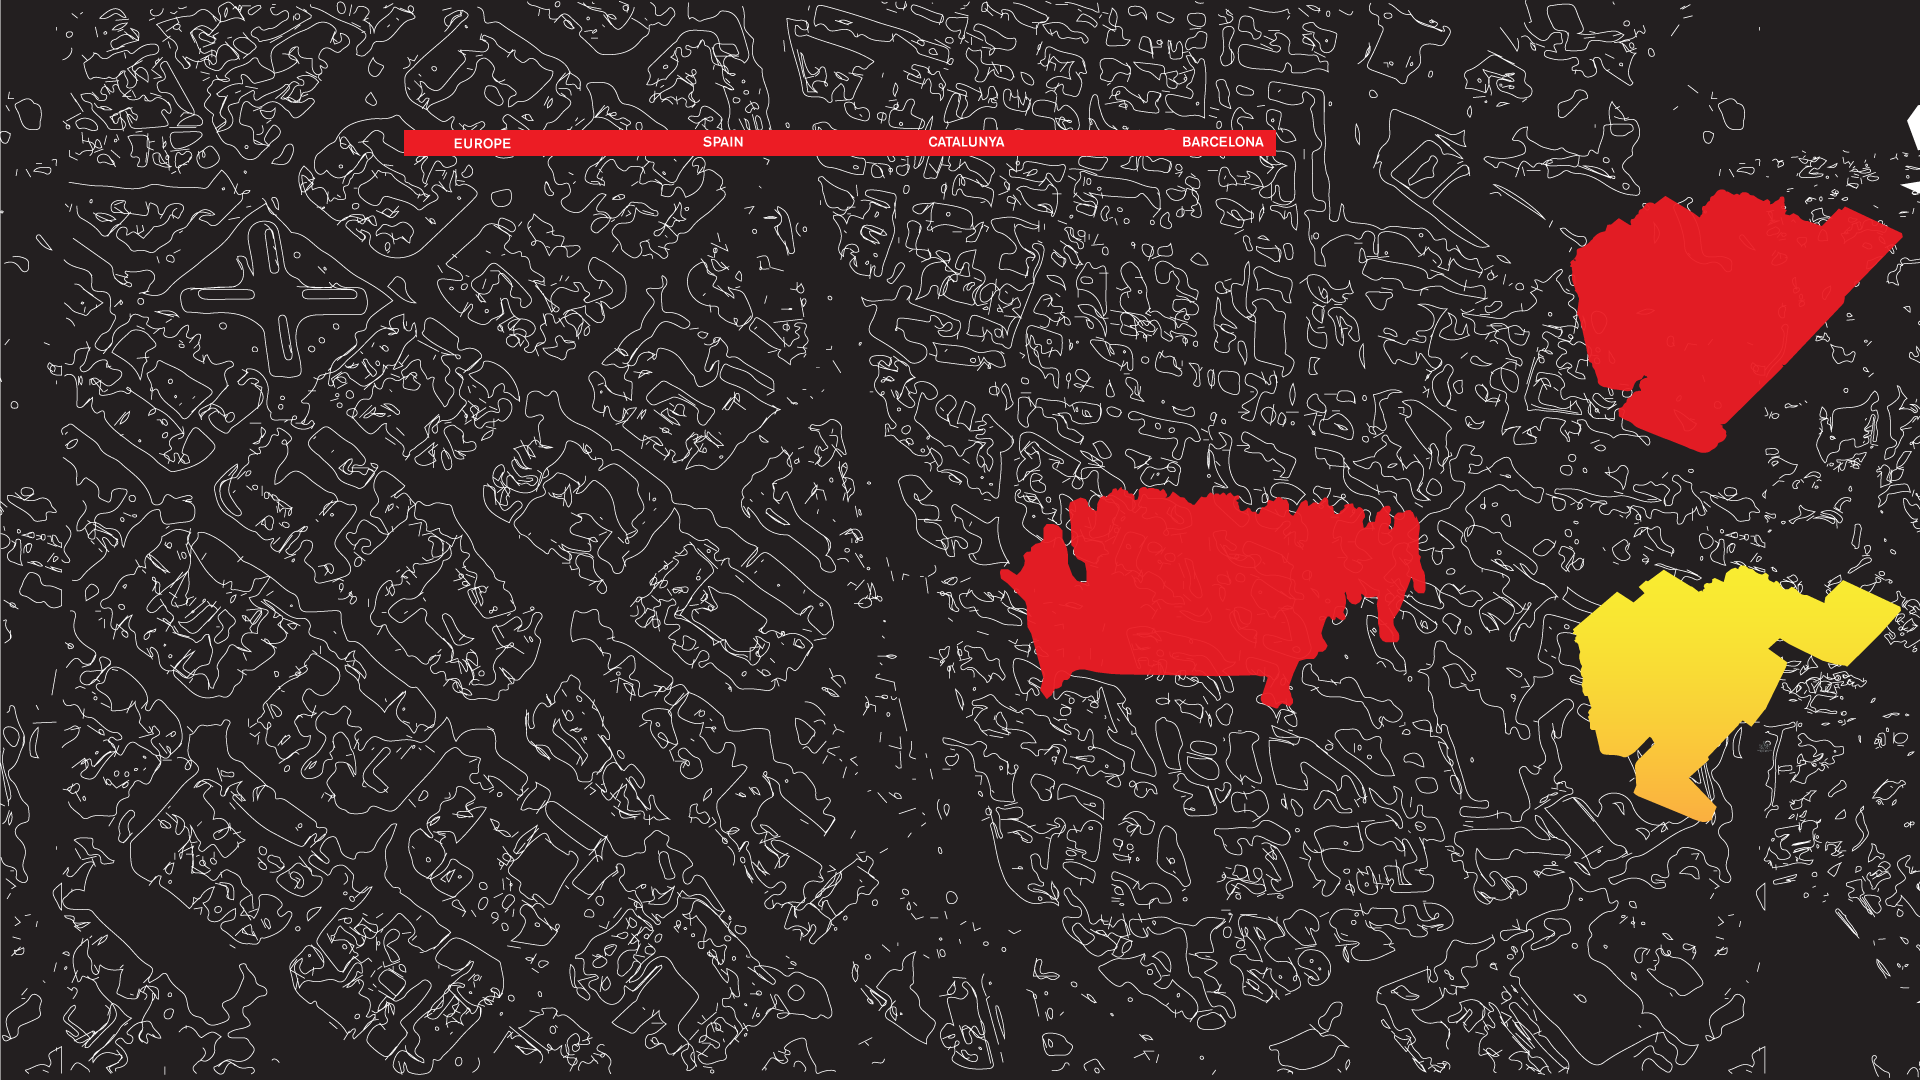
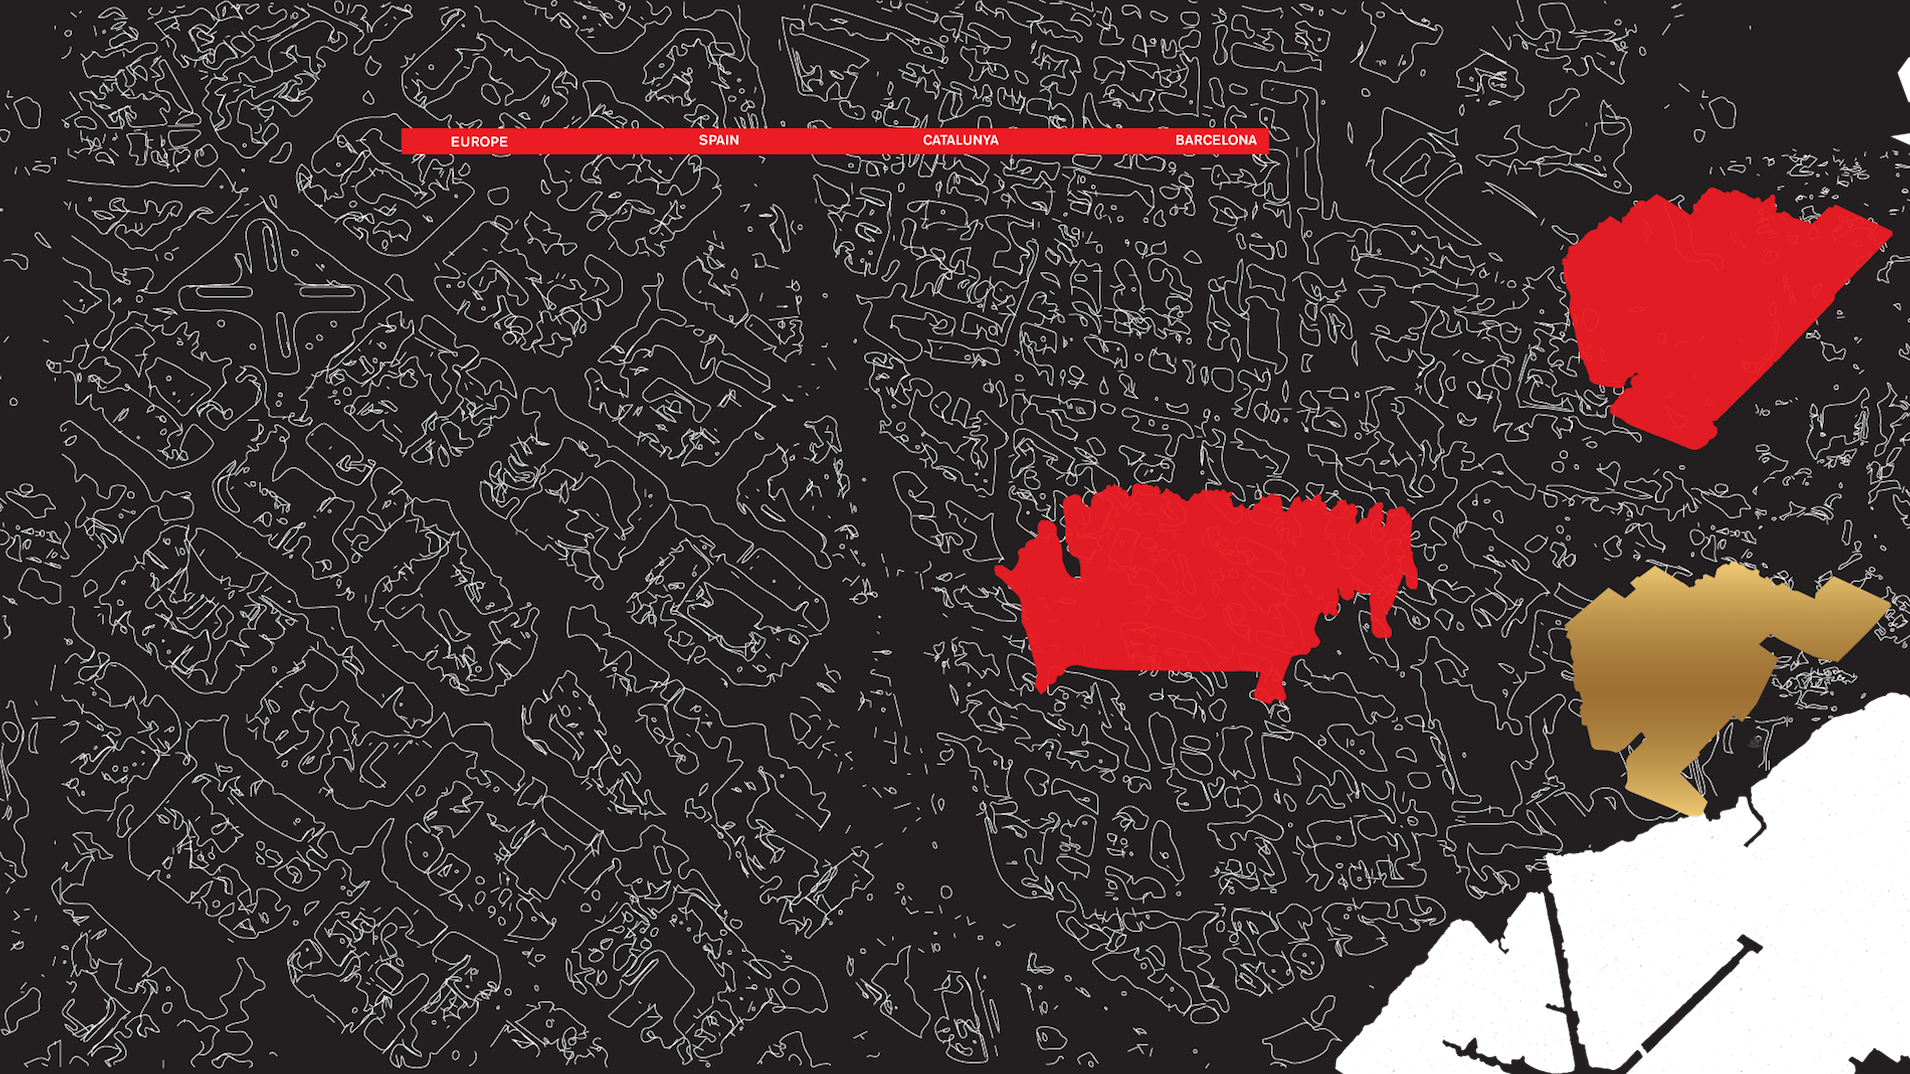
Updating images, getting rid of background lines

diff --git a/src/ofApp.cpp b/src/ofApp.cpp
@@ -256,20 +256,11 @@ void ofApp::draw(){
 
 //--------------------------------------------------------------
 void ofApp::drawBackground(){
+	ofPushStyle();
 	ofBackground(0);
-	ofSetColor(255);
-	// Draw up and down lines
-	for (int i = 0; i < 2; i++) {
-		ofDrawRectangle(width/3.0 * (i + 1) - 1, 0, 2, fixedHeight);
-		float divConst = 5.0;
-		if (i == 0) {
-			ofDrawRectangle(0, fixedHeight/divConst, fixedWidth, 2);
-		} else {
-			ofDrawRectangle(0, fixedHeight - fixedHeight/divConst, fixedWidth, 2);
-		}
-	}
 	background.draw(0, 0, fixedWidth, fixedHeight);
 	buildingBottom.draw(1752 - 183, 652 - 90, 333, 260);
+	ofPopStyle();
 }
 
 //--------------------------------------------------------------
